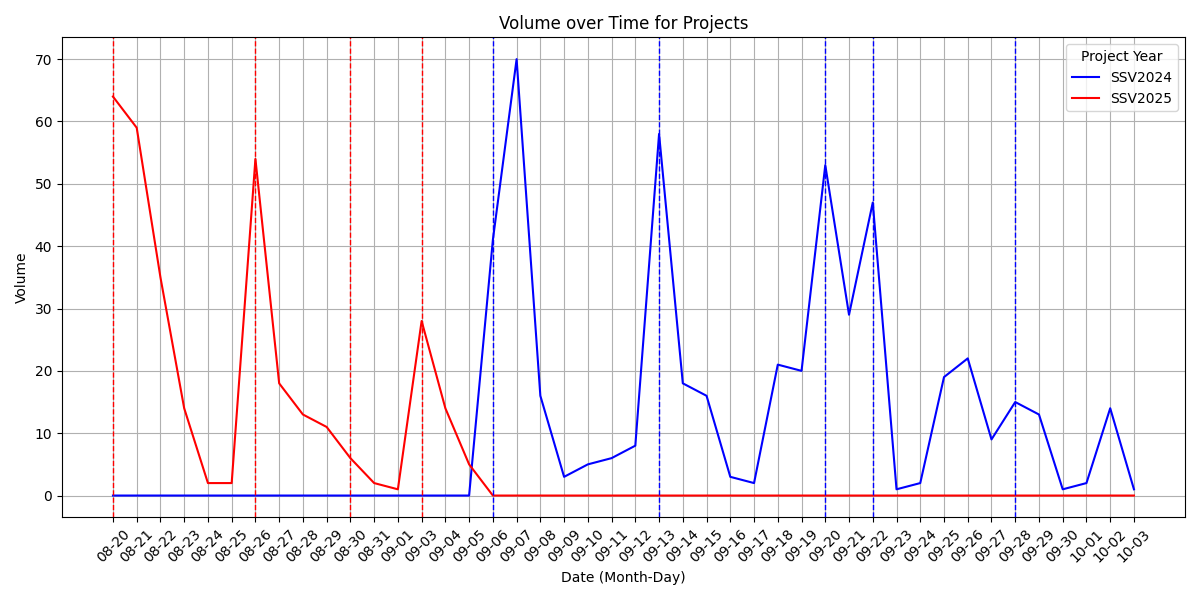
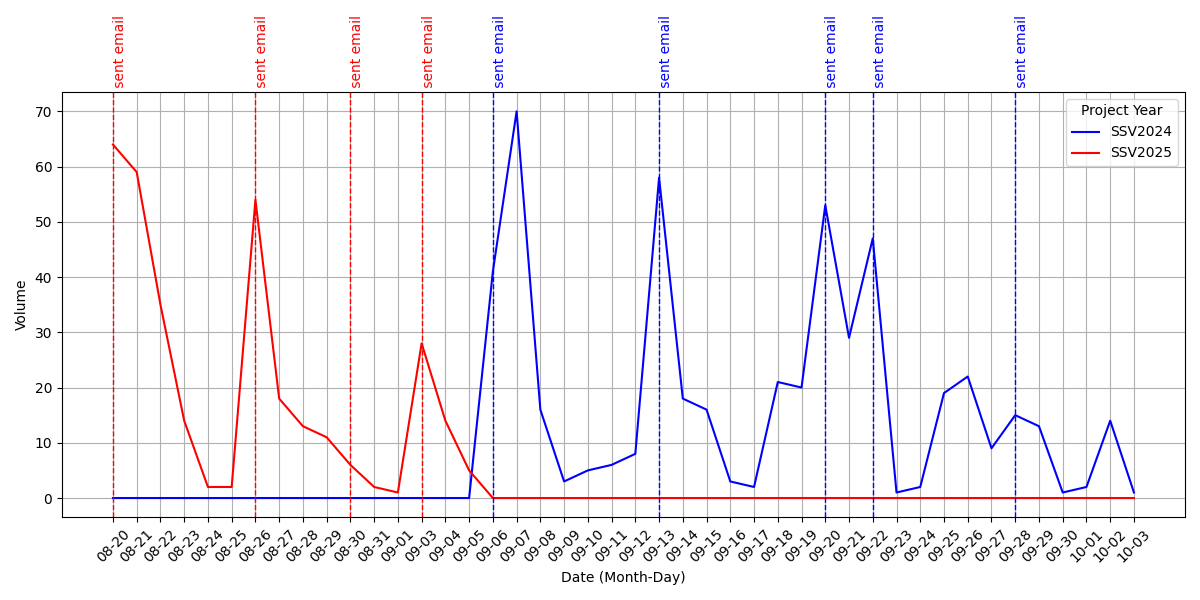
- Added labels and removed title which was in the way

diff --git a/date-response-trend.py b/date-response-trend.py
@@ -26,16 +26,17 @@ plt.figure(figsize=(12, 6))
 plt.plot(volume_df.index, volume_df['SSV2024'], label='SSV2024', color='blue')
 plt.plot(volume_df.index, volume_df['SSV2025'], label='SSV2025', color='red')
 
-# Add vertical lines for highlighted dates
+# Add vertical lines for highlighted dates with labels
 for date in highlight_ssv2024_dates:
     plt.axvline(x=date, color='blue', linestyle='--', linewidth=1)
+    plt.text(date, plt.ylim()[1], ' sent email', color='blue', rotation=90, verticalalignment='bottom')
 
 for date in highlight_ssv2025_dates:
     plt.axvline(x=date, color='red', linestyle='--', linewidth=1)
+    plt.text(date, plt.ylim()[1], ' sent email', color='red', rotation=90, verticalalignment='bottom')
 
 plt.xlabel('Date (Month-Day)')
 plt.ylabel('Volume')
-plt.title('Volume over Time for Projects')
 plt.legend(title='Project Year')
 plt.xticks(rotation=45)
 plt.grid(True)
